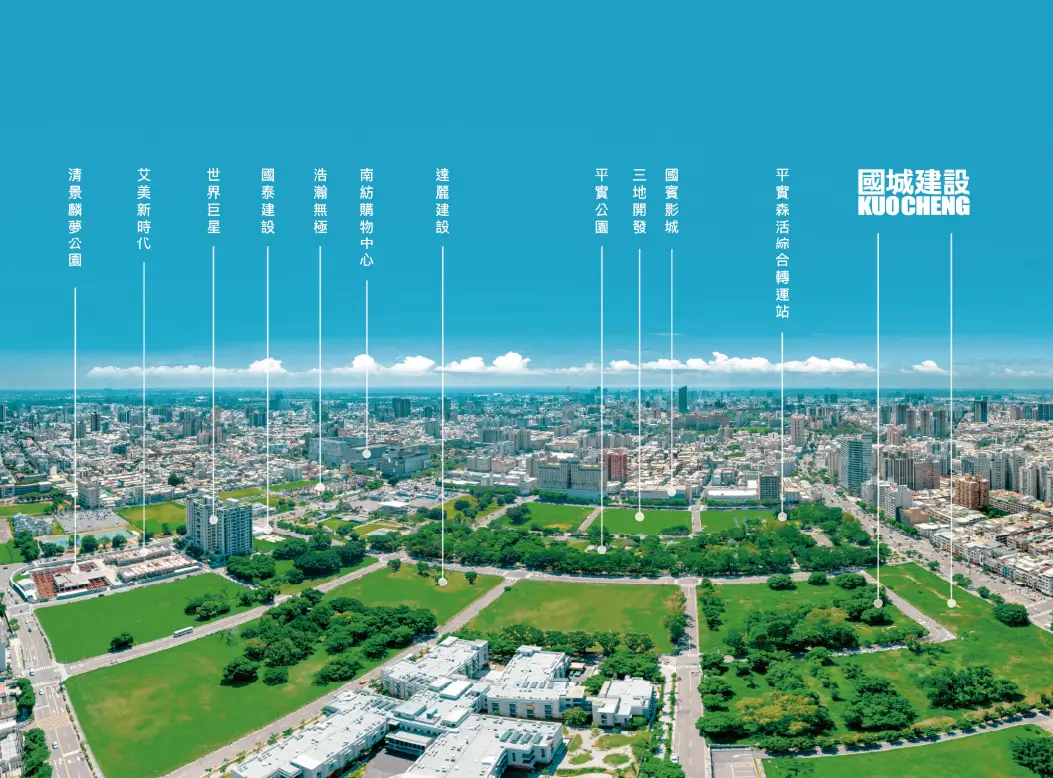
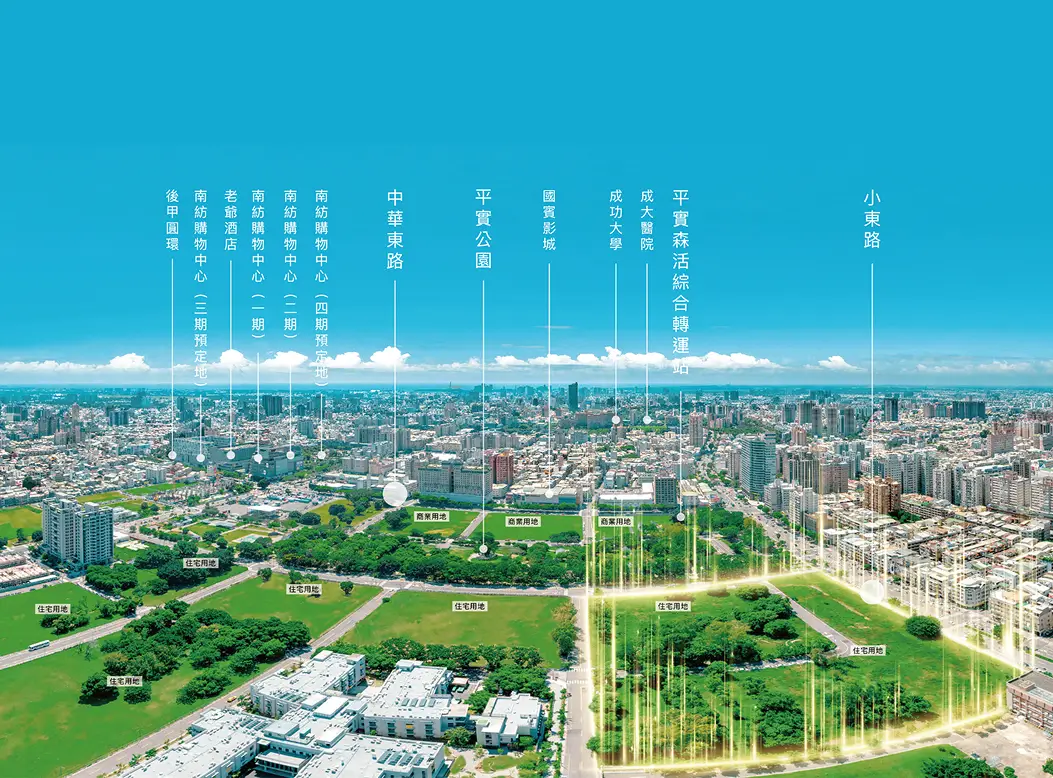
修改

diff --git a/src/info/news.js b/src/info/news.js
@@ -1,146 +1,23 @@
 export default [
   {
     link: '/news/1',                                            // 網址，唯一值，不可重複
-    title: '國城建設台南都更聯貸近175億今簽約將蓋12棟住宅大樓',     // 標題
+    title: '全台大都更時代來臨　台南平實特區集萬千寵愛於一身',     // 標題
     type: '消息新聞',                                            // 消息新聞 / 專題研究，擇一
-    thumbnail: '../assets/news/1/thumbnail.jpg',                // 列表頁封面圖
+    thumbnail: '../assets/news/1/01.webp',                // 列表頁封面圖
     date: '2024.10.08',                                         // 日期，與順序無關
     slider: [                                                   // 輪播圖
-      '../assets/news/1/thumbnail.jpg',
-      '../assets/news/1/thumbnail.jpg',
-      '../assets/news/1/thumbnail.jpg',
+      '../assets/news/1/01.webp',
     ],
-    content: `【記者林巧雁／台北報導】<br><br><br>
-              第一銀行與合庫銀、土銀今日完成主辦國城建設174.9億元聯貸簽約，聯貸資金主要支應台南市東區平實段4筆土地都市更新，由國城建設擔任本都更案實施者，基地位於台南市東區文教區，面積約8683坪，將興建12棟大樓住宅，其中一棟回饋予台南市政府作為公宅。<br><br>
-              一銀主辦國城建設174.9億元聯貸，由合庫銀董事長林衍茂（左1）、國城建設董事長蔡麗環（左2）、一銀董事長邱月琴（中）、國城建設總裁洪平森（右2）及土銀董事長何英明（右1）代表簽約。<br><br>
-              此都更案將提昇國有地的經濟效益與都市更新價值，加速達成土地資產活化與都市環境更新等目的，為大眾創造宜居、舒適、便利之生活空間。`,
-    nextLink: '/news/2',                                          // 下一篇連結，若沒下一篇則留空，例如：nextLink: ''
-    nextTitle: '國城建設攜手高興昌 拿下高雄 2 捷運聯開案 2025年動工'  // 下一篇標題，若沒下一篇則留空，例如：nextTitle: ''
-  },
-  {
-    link: '/news/2',
-    title: '國城建設攜手高興昌 拿下高雄 2 捷運聯開案 2025年動工',
-    type: '消息新聞',
-    thumbnail: '../assets/news/2/thumbnail.jpg',
-    date: '2024.03.27',
-    slider: [
-      '../assets/news/2/thumbnail.jpg',
-      '../assets/news/2/thumbnail.jpg',
-      '../assets/news/2/thumbnail.jpg',
-    ],
-    content: `【記者林巧雁／台北報導】<br><br><br>
-              第一銀行與合庫銀、土銀今日完成主辦國城建設174.9億元聯貸簽約，聯貸資金主要支應台南市東區平實段4筆土地都市更新，由國城建設擔任本都更案實施者，基地位於台南市東區文教區，面積約8683坪，將興建12棟大樓住宅，其中一棟回饋予台南市政府作為公宅。<br><br>
-              一銀主辦國城建設174.9億元聯貸，由合庫銀董事長林衍茂（左1）、國城建設董事長蔡麗環（左2）、一銀董事長邱月琴（中）、國城建設總裁洪平森（右2）及土銀董事長何英明（右1）代表簽約。<br><br>
-              此都更案將提昇國有地的經濟效益與都市更新價值，加速達成土地資產活化與都市環境更新等目的，為大眾創造宜居、舒適、便利之生活空間。`,
-    nextLink: '/news/3',
-    nextTitle: '高雄之光米其林雙星餐廳後繼有好料 國城集團再開高檔粵菜中餐廳'
-  },
-  {
-    link: '/news/3',
-    title: '高雄之光米其林雙星餐廳後繼有好料 國城集團再開高檔粵菜中餐廳',
-    type: '消息新聞',
-    thumbnail: '../assets/news/3/thumbnail.jpg',
-    date: '2024.03.21',
-    slider: [
-      '../assets/news/3/thumbnail.jpg',
-      '../assets/news/3/thumbnail.jpg',
-      '../assets/news/3/thumbnail.jpg',
-    ],
-    content: `【記者林巧雁／台北報導】<br><br><br>
-              第一銀行與合庫銀、土銀今日完成主辦國城建設174.9億元聯貸簽約，聯貸資金主要支應台南市東區平實段4筆土地都市更新，由國城建設擔任本都更案實施者，基地位於台南市東區文教區，面積約8683坪，將興建12棟大樓住宅，其中一棟回饋予台南市政府作為公宅。<br><br>
-              一銀主辦國城建設174.9億元聯貸，由合庫銀董事長林衍茂（左1）、國城建設董事長蔡麗環（左2）、一銀董事長邱月琴（中）、國城建設總裁洪平森（右2）及土銀董事長何英明（右1）代表簽約。<br><br>
-              此都更案將提昇國有地的經濟效益與都市更新價值，加速達成土地資產活化與都市環境更新等目的，為大眾創造宜居、舒適、便利之生活空間。`,
-    nextLink: '/news/4',
-    nextTitle: '【開箱國城】6個細節深入《定潮》：高雄人的極致嚮往'
-  },
-  {
-    link: '/news/4',
-    title: '【開箱國城】6個細節深入《定潮》：高雄人的極致嚮往',
-    type: '消息新聞',
-    thumbnail: '../assets/news/4/thumbnail.jpg',
-    date: '2024.10.08',
-    slider: [
-      '../assets/news/4/thumbnail.jpg',
-      '../assets/news/4/thumbnail.jpg',
-      '../assets/news/4/thumbnail.jpg',
-    ],
-    content: `【記者林巧雁／台北報導】<br><br><br>
-              第一銀行與合庫銀、土銀今日完成主辦國城建設174.9億元聯貸簽約，聯貸資金主要支應台南市東區平實段4筆土地都市更新，由國城建設擔任本都更案實施者，基地位於台南市東區文教區，面積約8683坪，將興建12棟大樓住宅，其中一棟回饋予台南市政府作為公宅。<br><br>
-              一銀主辦國城建設174.9億元聯貸，由合庫銀董事長林衍茂（左1）、國城建設董事長蔡麗環（左2）、一銀董事長邱月琴（中）、國城建設總裁洪平森（右2）及土銀董事長何英明（右1）代表簽約。<br><br>
-              此都更案將提昇國有地的經濟效益與都市更新價值，加速達成土地資產活化與都市環境更新等目的，為大眾創造宜居、舒適、便利之生活空間。`,
-    nextLink: '/news/5',
-    nextTitle: '【平實超展開】臺南人也不知道的平實重劃區 ？解密區域發展脈絡'
-  },
-  {
-    link: '/news/5',
-    title: '【平實超展開】臺南人也不知道的平實重劃區 ？解密區域發展脈絡',
-    type: '消息新聞',
-    thumbnail: '../assets/news/5/thumbnail.jpg',
-    date: '2024.03.27',
-    slider: [
-      '../assets/news/5/thumbnail.jpg',
-      '../assets/news/5/thumbnail.jpg',
-      '../assets/news/5/thumbnail.jpg',
-    ],
-    content: `【記者林巧雁／台北報導】<br><br><br>
-              第一銀行與合庫銀、土銀今日完成主辦國城建設174.9億元聯貸簽約，聯貸資金主要支應台南市東區平實段4筆土地都市更新，由國城建設擔任本都更案實施者，基地位於台南市東區文教區，面積約8683坪，將興建12棟大樓住宅，其中一棟回饋予台南市政府作為公宅。<br><br>
-              一銀主辦國城建設174.9億元聯貸，由合庫銀董事長林衍茂（左1）、國城建設董事長蔡麗環（左2）、一銀董事長邱月琴（中）、國城建設總裁洪平森（右2）及土銀董事長何英明（右1）代表簽約。<br><br>
-              此都更案將提昇國有地的經濟效益與都市更新價值，加速達成土地資產活化與都市環境更新等目的，為大眾創造宜居、舒適、便利之生活空間。`,
-    nextLink: '/news/6',
-    nextTitle: '【產業超白話】公辦都更的難與喃，國城建設：重來一次還是會這麼做'
-  },
-  {
-    link: '/news/6',
-    title: '【產業超白話】公辦都更的難與喃，國城建設：重來一次還是會這麼做',
-    type: '消息新聞',
-    thumbnail: '../assets/news/6/thumbnail.jpg',
-    date: '2024.03.27',
-    slider: [
-      '../assets/news/6/thumbnail.jpg',
-      '../assets/news/6/thumbnail.jpg',
-      '../assets/news/6/thumbnail.jpg',
-    ],
-    content: `【記者林巧雁／台北報導】<br><br><br>
-              第一銀行與合庫銀、土銀今日完成主辦國城建設174.9億元聯貸簽約，聯貸資金主要支應台南市東區平實段4筆土地都市更新，由國城建設擔任本都更案實施者，基地位於台南市東區文教區，面積約8683坪，將興建12棟大樓住宅，其中一棟回饋予台南市政府作為公宅。<br><br>
-              一銀主辦國城建設174.9億元聯貸，由合庫銀董事長林衍茂（左1）、國城建設董事長蔡麗環（左2）、一銀董事長邱月琴（中）、國城建設總裁洪平森（右2）及土銀董事長何英明（右1）代表簽約。<br><br>
-              此都更案將提昇國有地的經濟效益與都市更新價值，加速達成土地資產活化與都市環境更新等目的，為大眾創造宜居、舒適、便利之生活空間。`,
-    nextLink: '/news/7',
-    nextTitle: 'test國城建設台南都更聯貸近175億今簽約將蓋12棟住宅大樓'
-  },
-  {
-    link: '/news/7',
-    title: 'test國城建設台南都更聯貸近175億今簽約將蓋12棟住宅大樓',
-    type: '消息新聞',
-    thumbnail: '../assets/news/1/thumbnail.jpg',
-    date: '2024.10.08',
-    slider: [
-      '../assets/news/1/thumbnail.jpg',
-      '../assets/news/1/thumbnail.jpg',
-      '../assets/news/1/thumbnail.jpg',
-    ],
-    content: `test【記者林巧雁／台北報導】<br><br><br>
-              第一銀行與合庫銀、土銀今日完成主辦國城建設174.9億元聯貸簽約，聯貸資金主要支應台南市東區平實段4筆土地都市更新，由國城建設擔任本都更案實施者，基地位於台南市東區文教區，面積約8683坪，將興建12棟大樓住宅，其中一棟回饋予台南市政府作為公宅。<br><br>
-              一銀主辦國城建設174.9億元聯貸，由合庫銀董事長林衍茂（左1）、國城建設董事長蔡麗環（左2）、一銀董事長邱月琴（中）、國城建設總裁洪平森（右2）及土銀董事長何英明（右1）代表簽約。<br><br>
-              此都更案將提昇國有地的經濟效益與都市更新價值，加速達成土地資產活化與都市環境更新等目的，為大眾創造宜居、舒適、便利之生活空間。`,
-    nextLink: '',
-    nextTitle: ''
-  },
-  {
-    link: '/news/8',
-    title: 'test國城建設台南都更聯貸近175億今簽約將蓋12棟住宅大樓',
-    type: '專題研究',
-    thumbnail: '../assets/news/1/thumbnail.jpg',
-    date: '2024.10.08',
-    slider: [
-      '../assets/news/1/thumbnail.jpg',
-      '../assets/news/1/thumbnail.jpg',
-      '../assets/news/1/thumbnail.jpg',
-    ],
-    content: `test【記者林巧雁／台北報導】<br><br><br>
-              第一銀行與合庫銀、土銀今日完成主辦國城建設174.9億元聯貸簽約，聯貸資金主要支應台南市東區平實段4筆土地都市更新，由國城建設擔任本都更案實施者，基地位於台南市東區文教區，面積約8683坪，將興建12棟大樓住宅，其中一棟回饋予台南市政府作為公宅。<br><br>
-              一銀主辦國城建設174.9億元聯貸，由合庫銀董事長林衍茂（左1）、國城建設董事長蔡麗環（左2）、一銀董事長邱月琴（中）、國城建設總裁洪平森（右2）及土銀董事長何英明（右1）代表簽約。<br><br>
-              此都更案將提昇國有地的經濟效益與都市更新價值，加速達成土地資產活化與都市環境更新等目的，為大眾創造宜居、舒適、便利之生活空間。`,
-    nextLink: '',
-    nextTitle: ''
+    content: `房產中心／綜合報導<br><br><br>
+              403花蓮地震後，全民居安意識抬頭，台北蔣萬安市長率先宣示大都更時代來臨！然而與北部縣市著眼於舊市區以安全為出發點不同的是，台南市政府將都市更新的目標，著眼於「營改」與「眷改」土地上，市長黃偉哲持續盤點低度利用的公有土地，透過公辦都更加以活化，利用大型基地好規劃易塑造的特質，台南東區市容不僅迎來嶄新變化，也將提供更多公共資源於此，其中由陸軍釋出的平實營區最受矚目。<br><br>
+              台南市都發局表示，「公辦都更」以活化土地、提升環境景觀、開闢公共設施、實踐公共利益為目標，自109年起陸續進行公辦都更招商，目前已完成之營眷改基地包含仁德二空新村、北區中興新城及平實營區一、二期等案，其中平實營區第一期基地面積高達8683坪，於110年由高雄豪宅建商國城建設取得最優申請人資格，工程造價超過150億，未來將興建12棟住宅，當中1棟回饋市府使用，可售住宅約1300戶，將於今年推出銷售。<br><br>
+              市長黃偉哲進一步指出，平實營區第一期是實現公私協力、共同推動東區發展的重要公辦都市更新案，透過都市更新提高地主權利價值，市府取得社會住宅，並建構優質生活環境，共創多贏效益。平實營區總開發面積約42公頃，第一期基地由小東路、後甲二路、平實二街、裕永路圍塑而成，地理條件優異、交通系統便利，中華東路為外環幹道連接台南精華區域，小東路承接台南市府鐵路地下化工程效應，將成為台南市東西都市縫合的重要幹道，並連接於105年南北通車之大灣交流道；平實轉運站預計於115年完工啟用，第一期規劃13層轉運大樓，並引入商辦百貨、購物餐飲等複合機能，第二期結合台南市捷運路線開發，預計有藍綠雙線捷運在此交會。<br><br>
+              平實重劃區座落台南東區精華位置，周遭擁有成大、南一中、後甲國中、復興中小學等豐厚教育環境，醫療資源亦為台南之最，榮總緊鄰重劃區，奇美、成大醫院皆為醫學中心等級；除既有「南紡購物中心」及「國賓商圈」外，7公頃平實公園為台南東區第二大公園，於106年啟用，將平實重劃區妥善分隔為住宅與商業兩區，除保留原有老樹並規劃大型綠地外，滯洪池與專用箱涵設計，也為本區提供堅強韌性的防災功能與低碳宜居的生活環境。<br><br>
+              平實重劃區所屬之台南東區，為台南37行政區中人口密度最高的區域，也是台南人心中最想置產居住生活的環境，政府挹注大量資源於此地，並積極招商引進產業資源，平實重劃區將迎來長線利多，隨著平實轉運站動工、捷運興建、商業區招商、文教建設等陸續到位，將實現以公辦都市更新主導下，集合「綠地、生活、商圈、交通、人文」等特質，成為台南指標性的高端新富人聚落！
+              `,
+    nextLink: '',                                          // 下一篇連結，若沒下一篇則留空，例如：nextLink: ''
+    nextTitle: ''  // 下一篇標題，若沒下一篇則留空，例如：nextTitle: ''
+    //nextLink: '/news/2',                                          // 下一篇連結，若沒下一篇則留空，例如：nextLink: ''
+    //nextTitle: '國城建設攜手高興昌 拿下高雄 2 捷運聯開案 2025年動工'  // 下一篇標題，若沒下一篇則留空，例如：nextTitle: ''
   },
 ];

diff --git a/src/pages/News.vue b/src/pages/News.vue
@@ -4,7 +4,7 @@
       <div class="title"><span>NEWS</span>最新消息</div>
       <div class="tabs">
         <div class="tab" :class="{active: type === '消息新聞'}"><RouterLink to="/news">消息新聞</RouterLink></div>
-        <div class="tab" :class="{active: type === '專題研究'}"><RouterLink to="/projects">專題研究</RouterLink></div>
+        <!--div class="tab" :class="{active: type === '專題研究'}"><RouterLink to="/projects">專題研究</RouterLink></div-->
       </div>
     </div>
     <div class="list">

diff --git a/src/pages/Vision.vue b/src/pages/Vision.vue
@@ -218,7 +218,7 @@ h2 {
     @media screen and (min-width:768px) {
       display: block;
       position: absolute;
-      top: func.size(629);
+      top: func.size(574);
       left: func.size(1490);
       border: func.size(5) solid #219664;
       background: #fff;
@@ -530,7 +530,7 @@ h2 {
 }
 
 #order {
-  padding: func.size-m(30 + 30) 0 func.size-m(127) 0;
+  padding: func.size-m(30 + 30) 0 func.size-m(60) 0;
   @media screen and (min-width:768px) {
     padding: func.size(65 + 74) 0 func.size(197) 0;
   }

diff --git a/src/components/Order.vue b/src/components/Order.vue
@@ -370,7 +370,7 @@
   width: 100%;
   height: func.size-m(230);
   background: #ddd;
-  margin-bottom: func.size-m(21);
+  margin-bottom: func.size-m(60);
   @media screen and (min-width:768px) {
     width: func.size(1311);
     height: func.size(529);

diff --git a/src/pages/Order.vue b/src/pages/Order.vue
@@ -167,7 +167,7 @@
 }
 
 #order {
-  padding: func.size-m(30) 0 func.size-m(127) 0;
+  padding: func.size-m(30) 0 func.size-m(60) 0;
   @media screen and (min-width:768px) {
     padding: func.size(98) 0 func.size(216) 0;
   }
